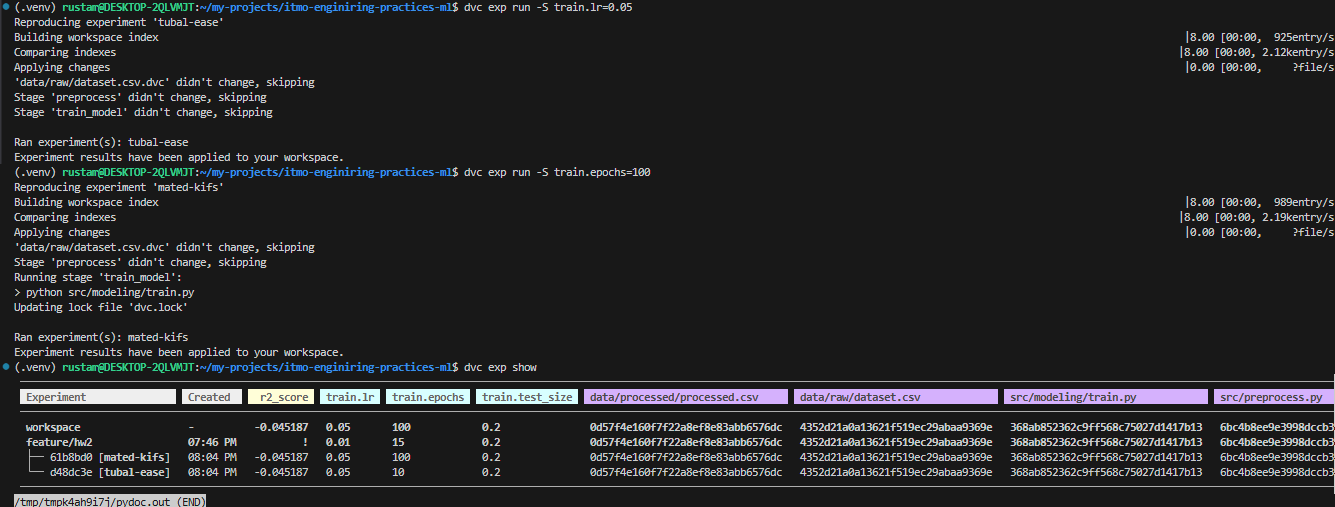
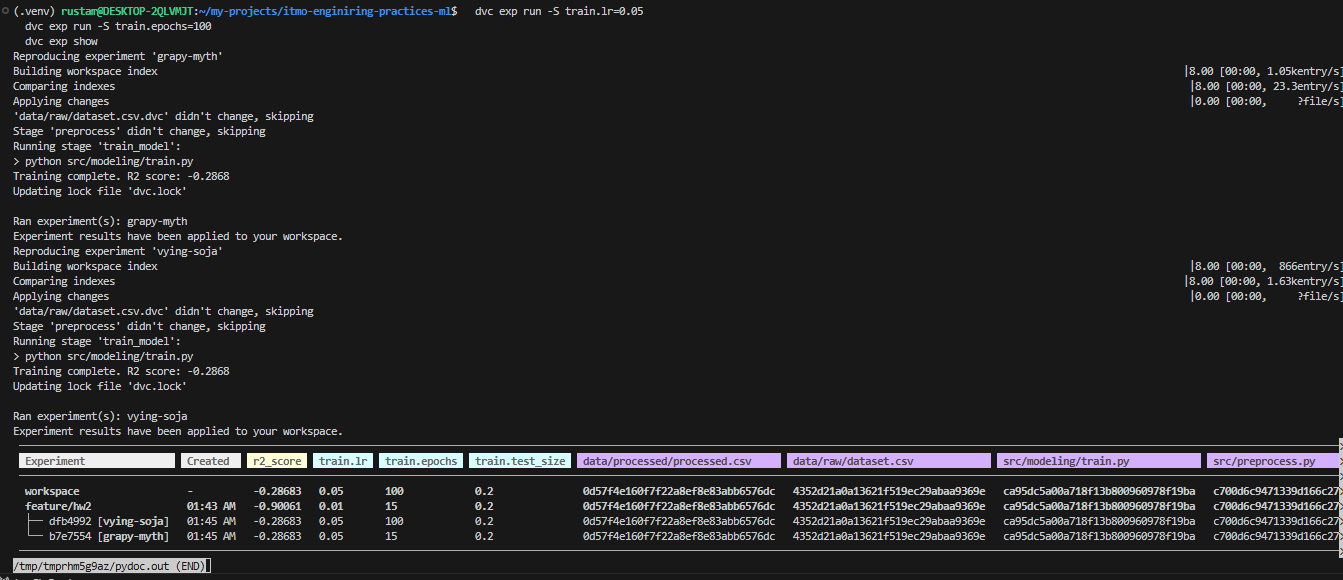
upd readme

Changed region(s): [[0.0, 0.0, 1.0, 1.0], [0.8599, 0.3846, 1.0, 0.5325], [0.8599, 0.0592, 1.0, 0.2071]]

diff --git a/README.md b/README.md
@@ -122,6 +122,11 @@ Directory structure:
     dvc exp show
   ```
   ![alt text](images/dvc_run_exps.png)
+- Другой вариант
+    ```
+    dvc metrics diff
+    ```
+  ![alt text](images/dvc_metrics_diff.png)
 
 ## 3. Воспроизводимость
 - Версии уже зафиксированы
